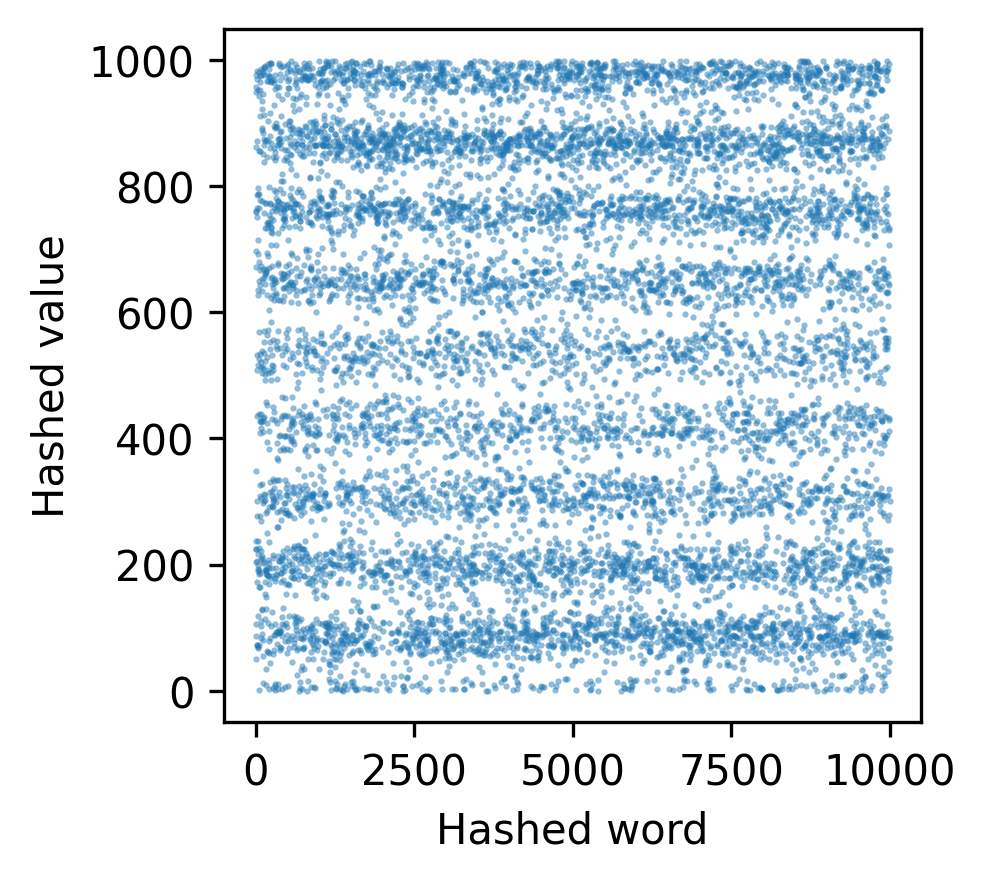
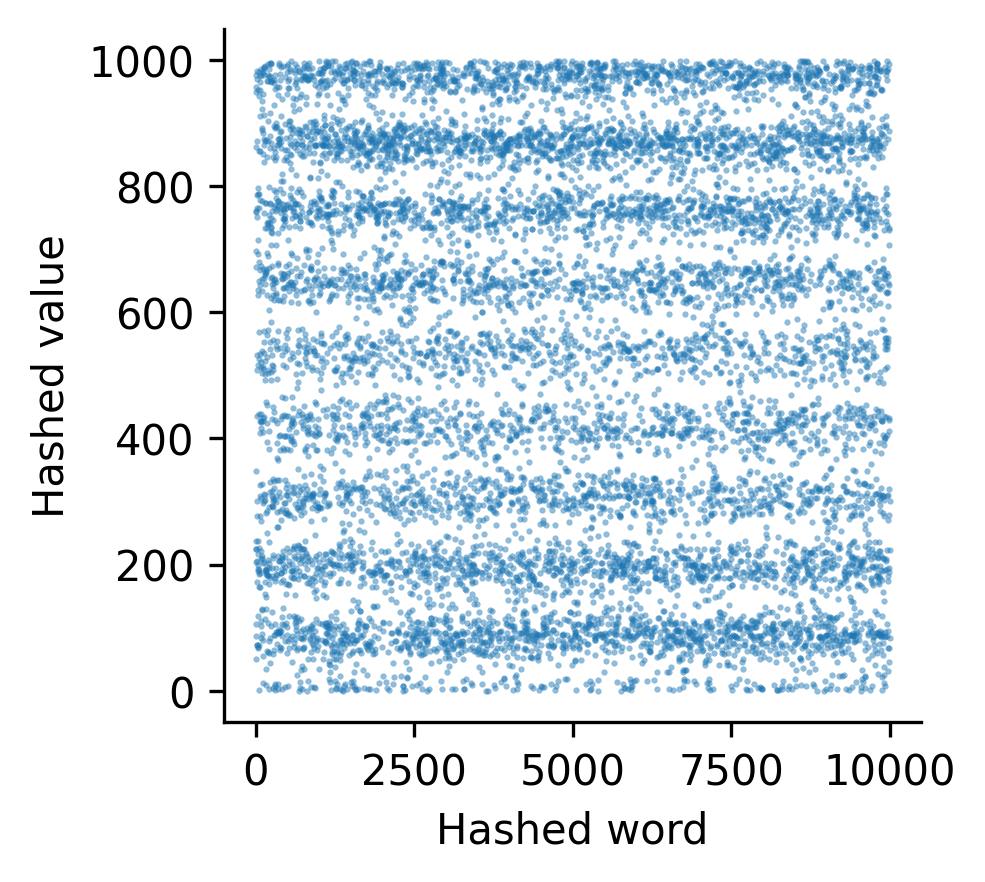
clean up plots

Changed region(s): [[0.2437, 0.0306, 0.9442, 0.8265]]

diff --git a/src/hash_tables/src/scatter.py b/src/hash_tables/src/scatter.py
@@ -29,5 +29,7 @@ ax = fig.add_subplot(1,1,1)
 ax.plot(X, Y, '.', ms=1, alpha=0.5)
 ax.set_xlabel(x_label)
 ax.set_ylabel(y_label)
+ax.spines['right'].set_visible(False)
+ax.spines['top'].set_visible(False)
 
 plt.savefig(out_file,bbox_inches='tight')

diff --git a/src/hash_tables/src/histogram.py b/src/hash_tables/src/histogram.py
@@ -22,5 +22,7 @@ ax = fig.add_subplot(1,1,1)
 ax.hist(Y)
 ax.set_xlabel(x_label)
 ax.set_ylabel(y_label)
+ax.spines['right'].set_visible(False)
+ax.spines['top'].set_visible(False)
 
 plt.savefig(out_file,bbox_inches='tight')
